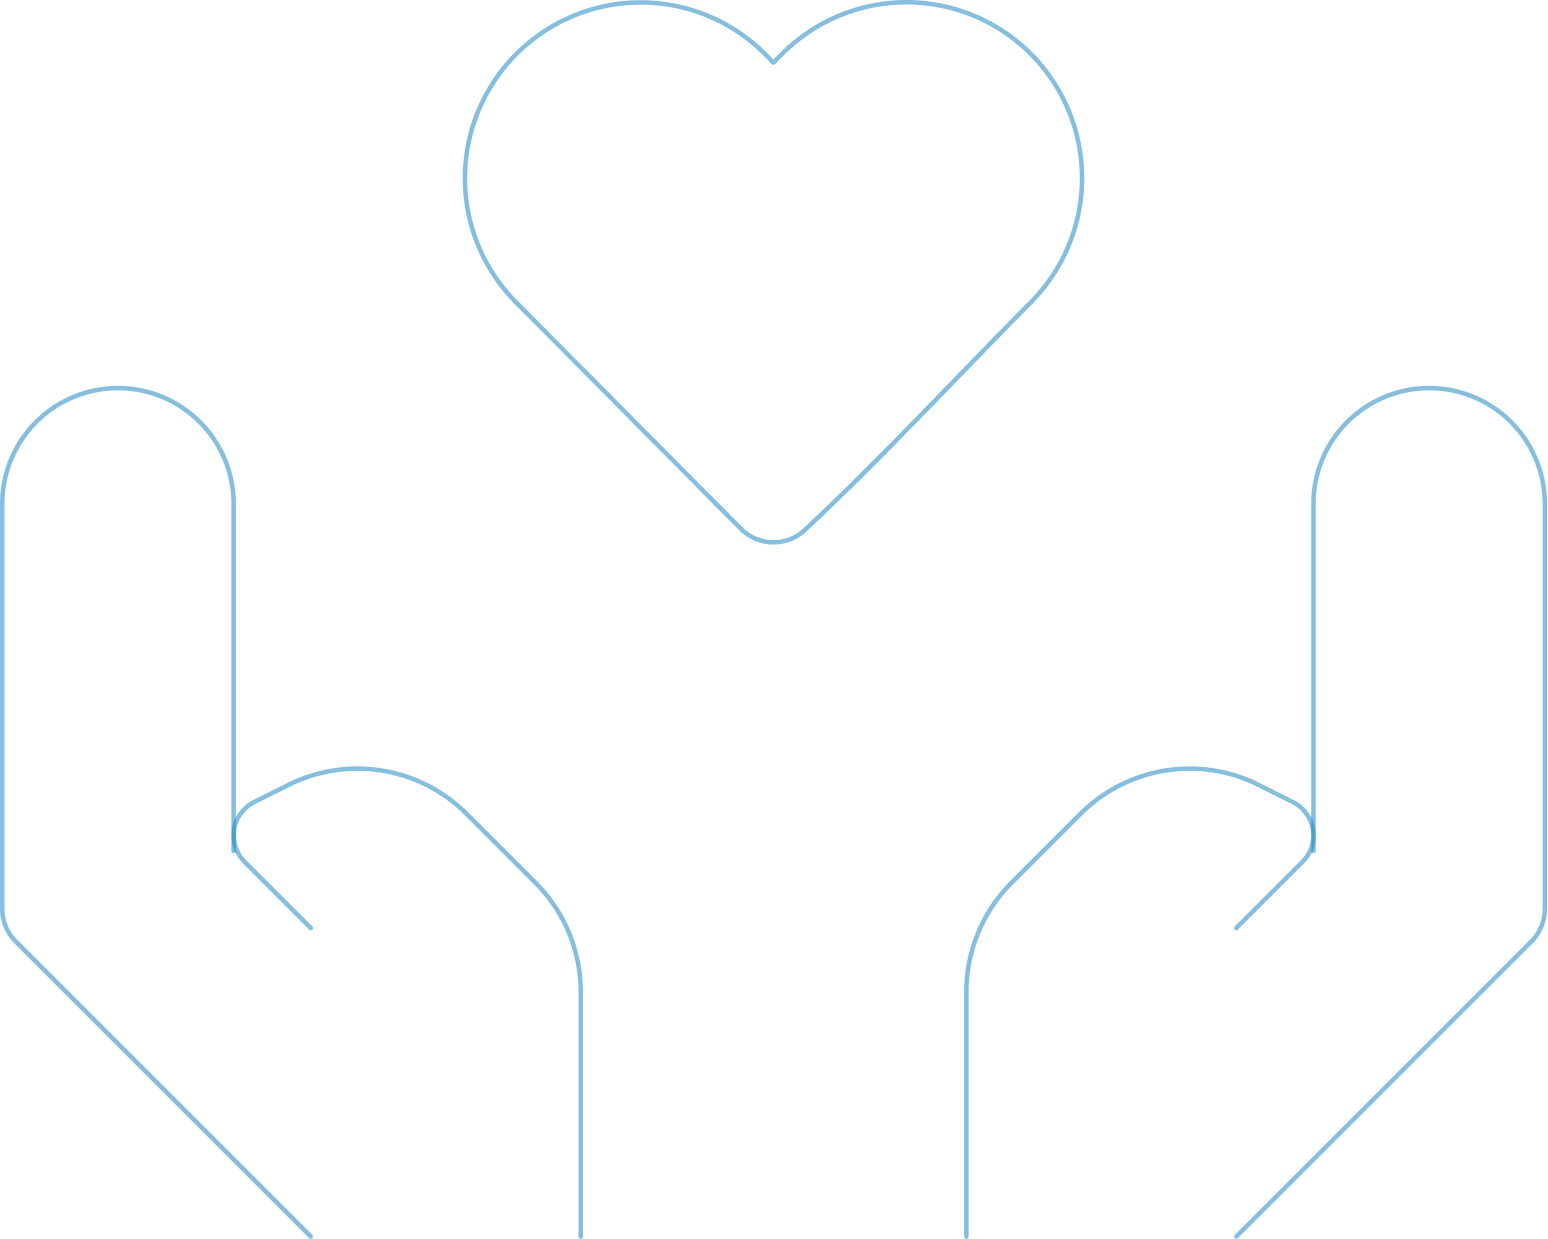
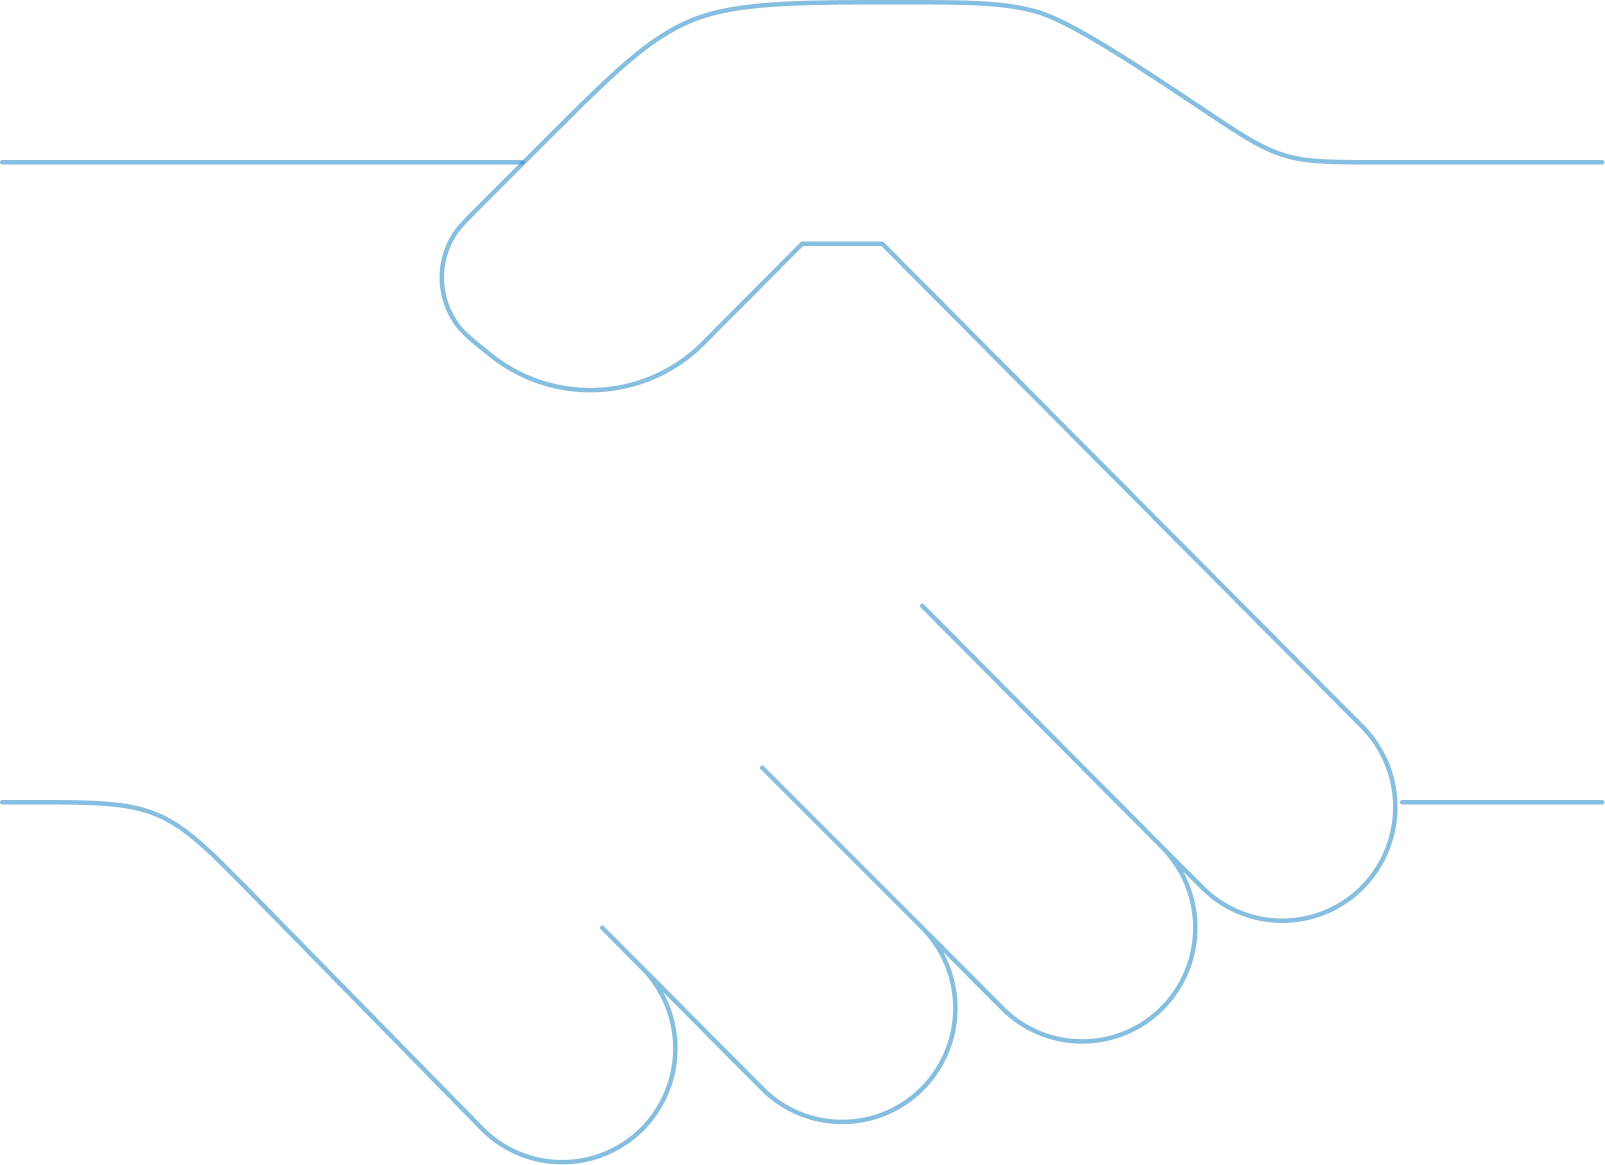
`Removed Make Impact page and related components`

diff --git a/section/partner-with-us/give-a-meal.tsx b/section/partner-with-us/give-a-meal.tsx
@@ -1,0 +1,73 @@
+import TransparencyImg from "@/public/assets/images/tranperancy.png";
+import RealLifeImpactImg from "@/public/assets/images/reallikeimpact.png";
+import GlobalReachImg from "@/public/assets/images/globalreach.png";
+import Image from "next/image";
+
+export default function GiveAMealAdvantage() {
+  return (
+    <div className="pt-10">
+      <h1 className="text-[#00304C] text-4xl flex justify-center font">
+        The Give A Meal Advantage
+      </h1>
+      <div className="flex justify-center items-center flex-wrap gap-10 md:gap-20 py-10 px-4">
+        {/* Transparency */}
+        <div className="flex justify-center items-center flex-col text-center max-w-xs">
+          <div className="relative w-40 h-40">
+            <Image
+              src={TransparencyImg}
+              alt="transparency"
+              fill
+              className="object-cover rounded-full"
+            />
+          </div>
+          <h1 className="text-[#00304C] text-xl font-semibold mt-4">
+            Maximum Transparency
+          </h1>
+          <p className="text-[#00304C] mt-2 text-lg leading-relaxed">
+            We provide clear, verifiable data on every dollar spent, ensuring
+            your organization’s contribution is fully accounted for.
+          </p>
+        </div>
+
+        {/* Global Reach */}
+        <div className="flex justify-center items-center flex-col text-center max-w-xs">
+          <div className="relative w-40 h-40">
+            <Image
+              src={GlobalReachImg}
+              alt="global reach"
+              fill
+              className="object-contain rounded-full"
+            />
+          </div>
+          <h1 className="text-[#00304C] text-xl font-semibold mt-4">
+            Global Reach
+          </h1>
+          <p className="text-[#00304C] mt-2 text-lg leading-relaxed">
+            Leveraging the network of the UN World Food Programme, we deliver
+            aid to the world’s most vulnerable and hard-to-reach regions.
+          </p>
+        </div>
+      </div>
+      <div className="flex justify-center items-center pt-5">
+        <div className="flex justify-center items-center flex-col text-center max-w-xs">
+          <div className="">
+            <Image
+              src={RealLifeImpactImg}
+              alt="real-time impact"
+              width={150}
+              height={150}
+              className="object-contain "
+            />
+          </div>
+          <h1 className="text-[#00304C] text-xl font-semibold mt-4">
+            Real-Time Impact
+          </h1>
+          <p className="text-[#00304C] mt-2 text-lg leading-relaxed">
+            See the results of our collaboration as they happen, with live
+            updates and data-driven storytelling.
+          </p>
+        </div>
+      </div>
+    </div>
+  );
+}

diff --git a/section/partner-with-us/partner-with-us-hero.tsx b/section/partner-with-us/partner-with-us-hero.tsx
@@ -1,7 +1,4 @@
 "use client";
-import groupHand from "@/public/assets/images/group.png";
-import Image from "next/image";
-import rectangle from "@/public/assets/images/Rectangle 4.jpeg";
 import {
   AnimatePresence,
   circInOut,
@@ -10,8 +7,11 @@ import {
   useInView,
 } from "framer-motion";
 import { useRef } from "react";
+import Image from "next/image";
+import groupHand from "@/public/assets/images/Group.png";
+import rectangle from "@/public/assets/images/Rectangle 4.jpeg";
 
-export default function PickaCause() {
+export default function PartnerWithUsHeroSection() {
   const ref = useRef(null);
   const isInView = useInView(ref, { once: true, margin: "-50px" });
   const transitionSpring = {
@@ -29,7 +29,7 @@ export default function PickaCause() {
         transition={transitionSpring}
       >
         <div>
-          <div className="relative w-full h-[350px] mt-10 overflow-hidden rounded-xl">
+          <div className="relative w-full h-[350px] mt-10 overflow-hidden rounded-xl mb-5">
             {/* 1. The Image Background */}
             <Image
               src={groupHand}
@@ -40,14 +40,13 @@ export default function PickaCause() {
             />
 
             {/* 3. The Text Content Centered on top */}
-            <div className="absolute inset-0 flex flex-col justify-center items-center text-center mb-13 p-4">
+            <div className="absolute inset-0 flex flex-col justify-center items-center text-center  p-4">
               <h1 className="text-[#00304C] text-4xl md:text-6xl font-bold leading-tight drop-shadow-lg">
-                Pick A Cause. Feed A Life
+                Uniting for Real Change
               </h1>
 
               <p className="max-w-lg pt-5  text-lg md:text-xl text-[#00304CCC]">
-                Choose a cause that moves you, and we will ensure every meal
-                reaches those in need.
+                When we join forces, our reach has no limits.
               </p>
             </div>
           </div>

diff --git a/app/partner-with-us/page.tsx b/app/partner-with-us/page.tsx
@@ -1,0 +1,13 @@
+import TopNavBar from "@/layout/Topnavbar";
+import PartnerWithUsHeroSection from "@/section/partner-with-us/partner-with-us-hero";
+import GiveAMealAdvantage from "@/section/partner-with-us/give-a-meal";
+
+export default function PartnerWithUs() {
+  return (
+    <div>
+      <TopNavBar />
+      <PartnerWithUsHeroSection />
+      <GiveAMealAdvantage />
+    </div>
+  );
+}

diff --git a/layout/Topnavbar/useTopnavbar.ts b/layout/Topnavbar/useTopnavbar.ts
@@ -17,7 +17,7 @@ export type menu_type = {
 export const leftMenu: menu_type[] = [
   {
     title: "Make Impact",
-    path: "/make-impact",
+    path: "/",
   },
   {
     title: "Monthly Giving",
